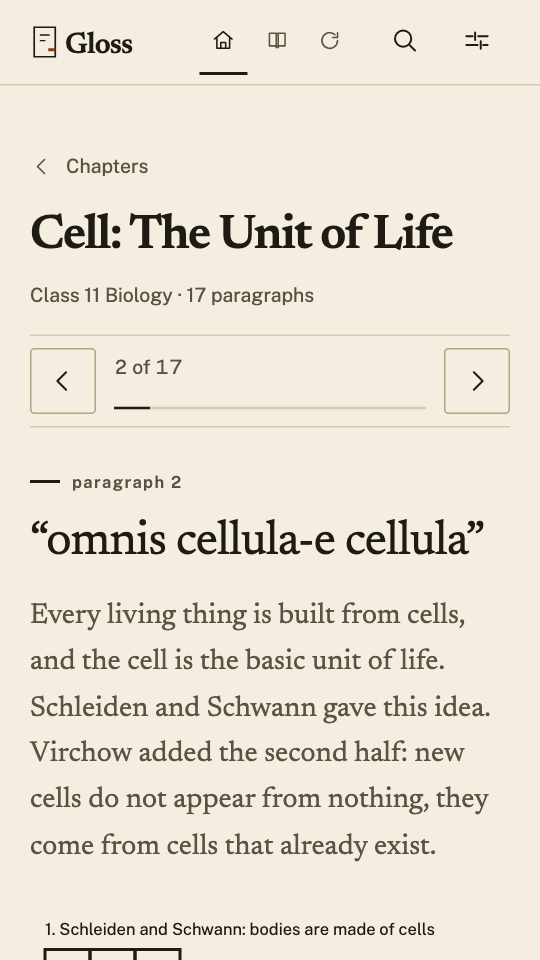
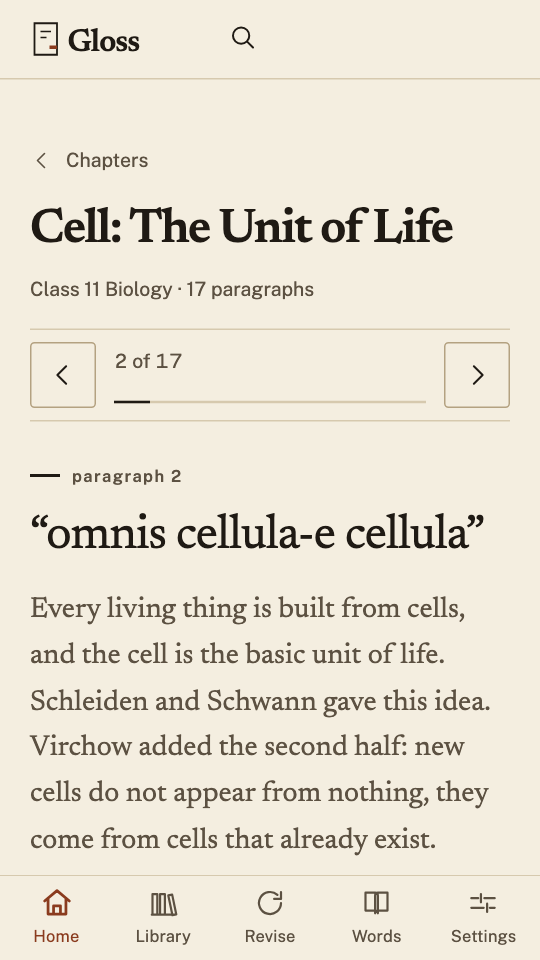
test: wait for the chapter chunk before going offline
The shell script is cached before the chapter bundle arrives, so the old wait
could cut the network while the chunk was still in flight. The screenshots
script now also covers physics and the library.

🤖 Generated with Codebuff

diff --git a/e2e/offline.spec.ts b/e2e/offline.spec.ts
@@ -11,7 +11,9 @@ test('a visited chapter reloads with no network', async ({ page, context }) => {
       if (names.length === 0) return false
       const cache = await caches.open(names[0])
       const keys = await cache.keys()
-      return keys.some((r) => r.url.endsWith('.js')) && keys.some((r) => r.url.endsWith('/'))
+      // Wait for the chapter's own chunk, not any script: the shell's JS is cached before the
+      // chapter bundle arrives, and reloading in between is not the case this test claims.
+      return keys.some((r) => r.url.includes('bio-11-ch8')) && keys.some((r) => r.url.endsWith('/'))
     },
     undefined,
     { timeout: 15_000 },

diff --git a/docs/PROGRESS.md b/docs/PROGRESS.md
@@ -32,6 +32,15 @@ gzip, contrast script passes in both themes.
 **Bug found and fixed here:** Vitest was collecting the Playwright specs (5 failing files hidden by
 a `| tail` check). `vite.config.ts` now includes only `src/**/*.test.ts`.
 
-**Next:** merge this branch, then `feature/app-shell-landing`: public landing with the live
+**Physics and chemistry added (`feature/physics-chemistry-content`, PR #13):** Class 11 Physics 1
+(Units and Measurements) and Chemistry 1 (Some Basic Concepts of Chemistry), six draft paragraphs
+each, with diagrams. Content is now 4 chapters, 46 paragraphs, 135 words.
+
+**Subject covers and shell (`feature/subject-covers`):** drawn subject covers tinted with the
+subject ink, a Library screen, a shared chapter row component, `#/s/<subject>`, and a five item
+bottom tab bar on phones with labels. Fixed: SVG shapes defaulted to black fill, so every new
+diagram rendered as a blob until the base rule set `fill: none`.
+
+**Next:** `feature/app-shell-landing`: public landing with the live
 paragraph demo, bottom tab bar on phones and a left rail on desktop, Today and Library screens,
 drawn subject covers, then the reader redesign with the margin sheet.
